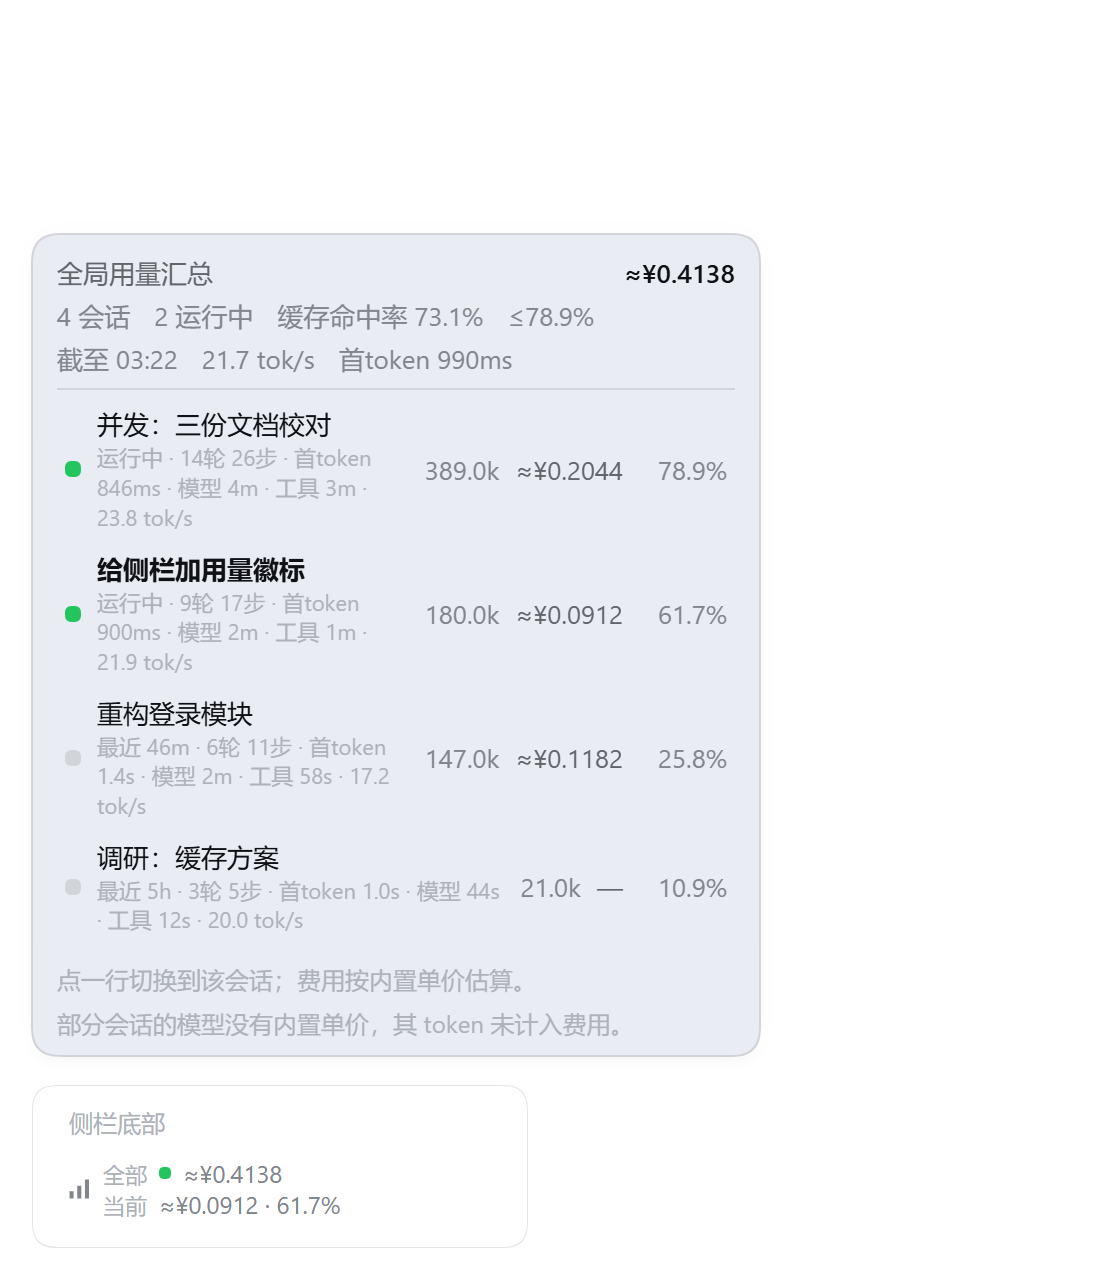
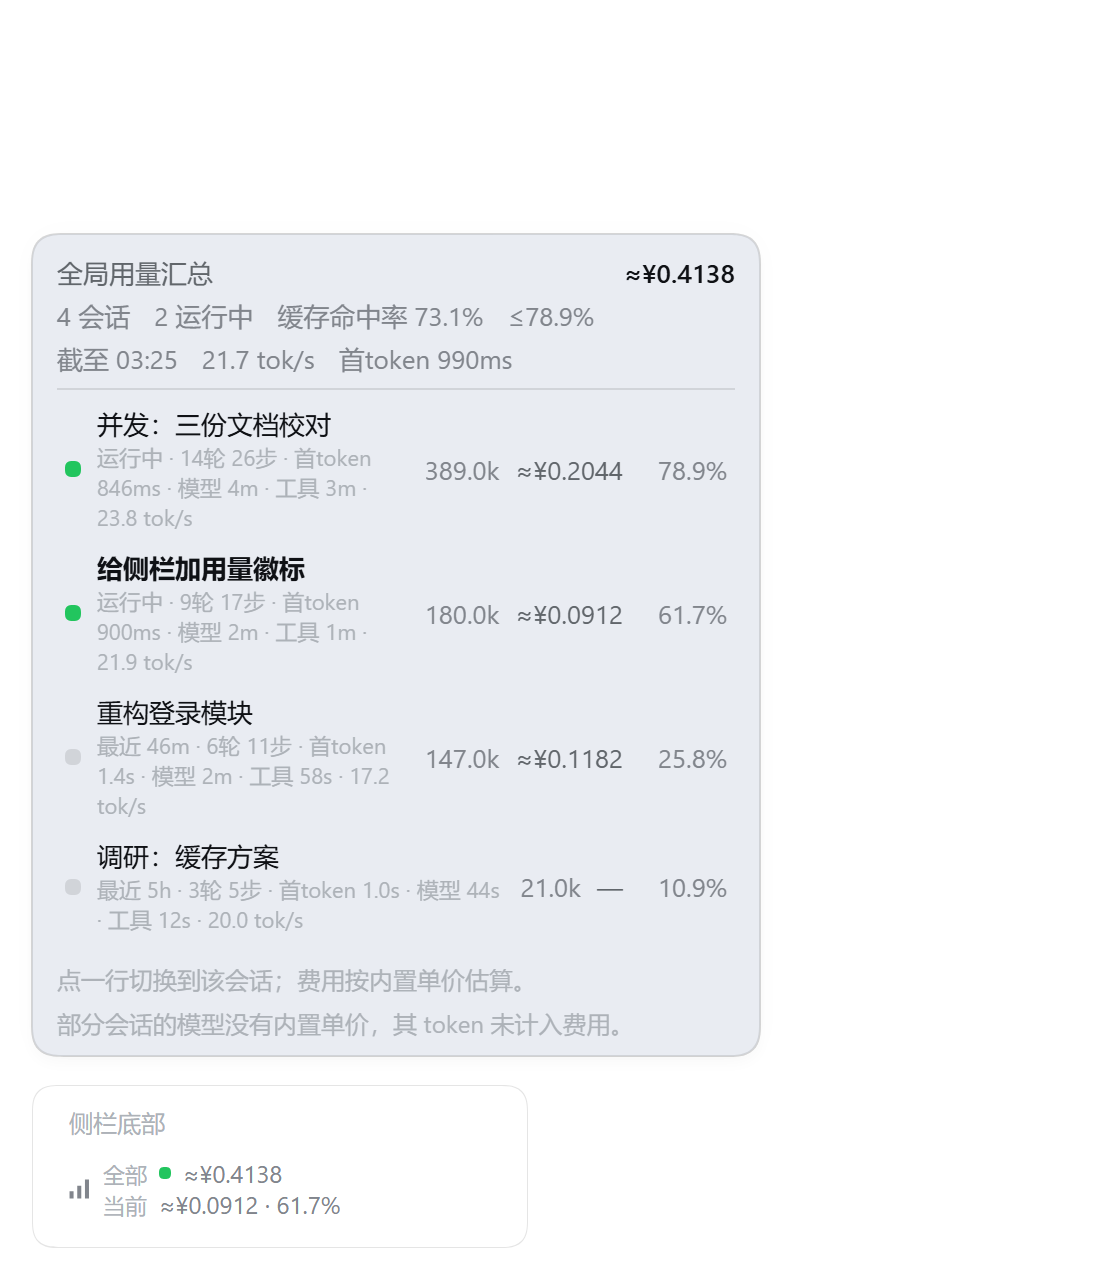
feat(turns): 翻页交给平台（滚轨道+点未加载刻度），预览默认返回全部轮次

diff --git a/client.js b/client.js
@@ -518,13 +518,15 @@ window.__ModuleLoader__.load({
     /** 把轨道滚到第 ordinal 个刻度附近（刻度固定 10px 间距，平台自己的 scrollToIndex 也这么做）。 */
     function scrollRailToIndex(ordinal) {
       const rail = turnRail();
-      if (rail === null) return;
-      for (const node of rail.querySelectorAll('*')) {
+      if (rail === null) return false;
+      const candidates = [rail, ...rail.querySelectorAll('*')];
+      for (const node of candidates) {
         if (node.scrollHeight > node.clientHeight + 4) {
           node.scrollTop = Math.max(0, ordinal * TURN_SPACING_PX - node.clientHeight / 2);
-          return;
+          return true;
         }
       }
+      return false;
     }
 
     /** 第 turn 轮的候选刻度：可见轨道优先，loaded 文案优先。 */
@@ -566,8 +568,11 @@ window.__ModuleLoader__.load({
     const warmedJumpSessions = new Set();
     /** 预热后等轨道落位的时间。 */
     const JUMP_WARM_MS = 500;
-    /** 一次跳转里最多替用户翻几页"更早"（每页约 50 条消息 / 2 轮；长对话要翻很多页）。 */
-    const JUMP_PAGE_TRIES = 24;
+    /**
+     * 兜底翻页预算：正路是"滚轨道 + 点未加载刻度"，平台自己 loadThrough。
+     * 只有在树里根本找不到轨道时，才自己翻 2 页碰碰运气。
+     */
+    const JUMP_PAGE_TRIES = 2;
     /** 翻一页后等它渲染的时间。 */
     const JUMP_PAGE_MS = 250;
 
@@ -576,14 +581,17 @@ window.__ModuleLoader__.load({
       const sessionId = typeof options.sessionId === 'string' ? options.sessionId : null;
 
       /** 点一次目标刻度：优先按序号（两边都按轮次升序，序号一致即同一轮）。 */
+      let railScrolled = false;
       const clickTarget = () => {
         if (ordinal !== null) {
           const byIndex = markByIndex(ordinal);
           if (byIndex !== null) {
+            // 未加载的刻度文案是「加载并跳转到第 N 轮」：点它，平台自己翻页 + 落位
             if (typeof byIndex.click === 'function') byIndex.click();
             return true;
           }
-          scrollRailToIndex(ordinal);
+          // 刻度还没渲染出来：把轨道滚到那一格（虚拟化轨道只渲染可视范围内的刻度）
+          if (scrollRailToIndex(ordinal)) railScrolled = true;
         }
         const marks = findTurnMarks(turn);
         if (marks.length === 0) return false;
@@ -652,7 +660,9 @@ window.__ModuleLoader__.load({
           settleAndJump();
           return;
         }
-        // 还看不到第 1 轮刻度：翻一页更早的历史再试
+        // 看不到第 1 轮刻度：先把轨道滚回最前（让刻度渲染出来）
+        scrollRailToIndex(0);
+        // 还看不到就翻一页更早的历史再试（兜底；正路是点未加载刻度）
         if (pages > 0 && !pagesExhausted) {
           void pageOnce().then((more) => {
             if (more === false) pagesExhausted = true;

diff --git a/index.js b/index.js
@@ -13,8 +13,8 @@
  * 走 `ctx.sessionQuery.readSession()`：活跃会话读 live 日志，冷会话读持久化日志，返回已验证的克隆事件。
  */
 
-/** 默认返回的轮数上限（只回最近几轮，避免一次读太长）。 */
-const DEFAULT_LIMIT = 30;
+/** 默认返回的轮数上限：预览要能点到任何一轮，所以默认就把全部轮次带上（每轮只有摘要+用量）。 */
+const DEFAULT_LIMIT = 200;
 /** 轮数上限的硬顶。 */
 const MAX_LIMIT = 200;
 /** 同一会话的折叠结果缓存时长：避免鼠标扫过时反复读日志。 */
